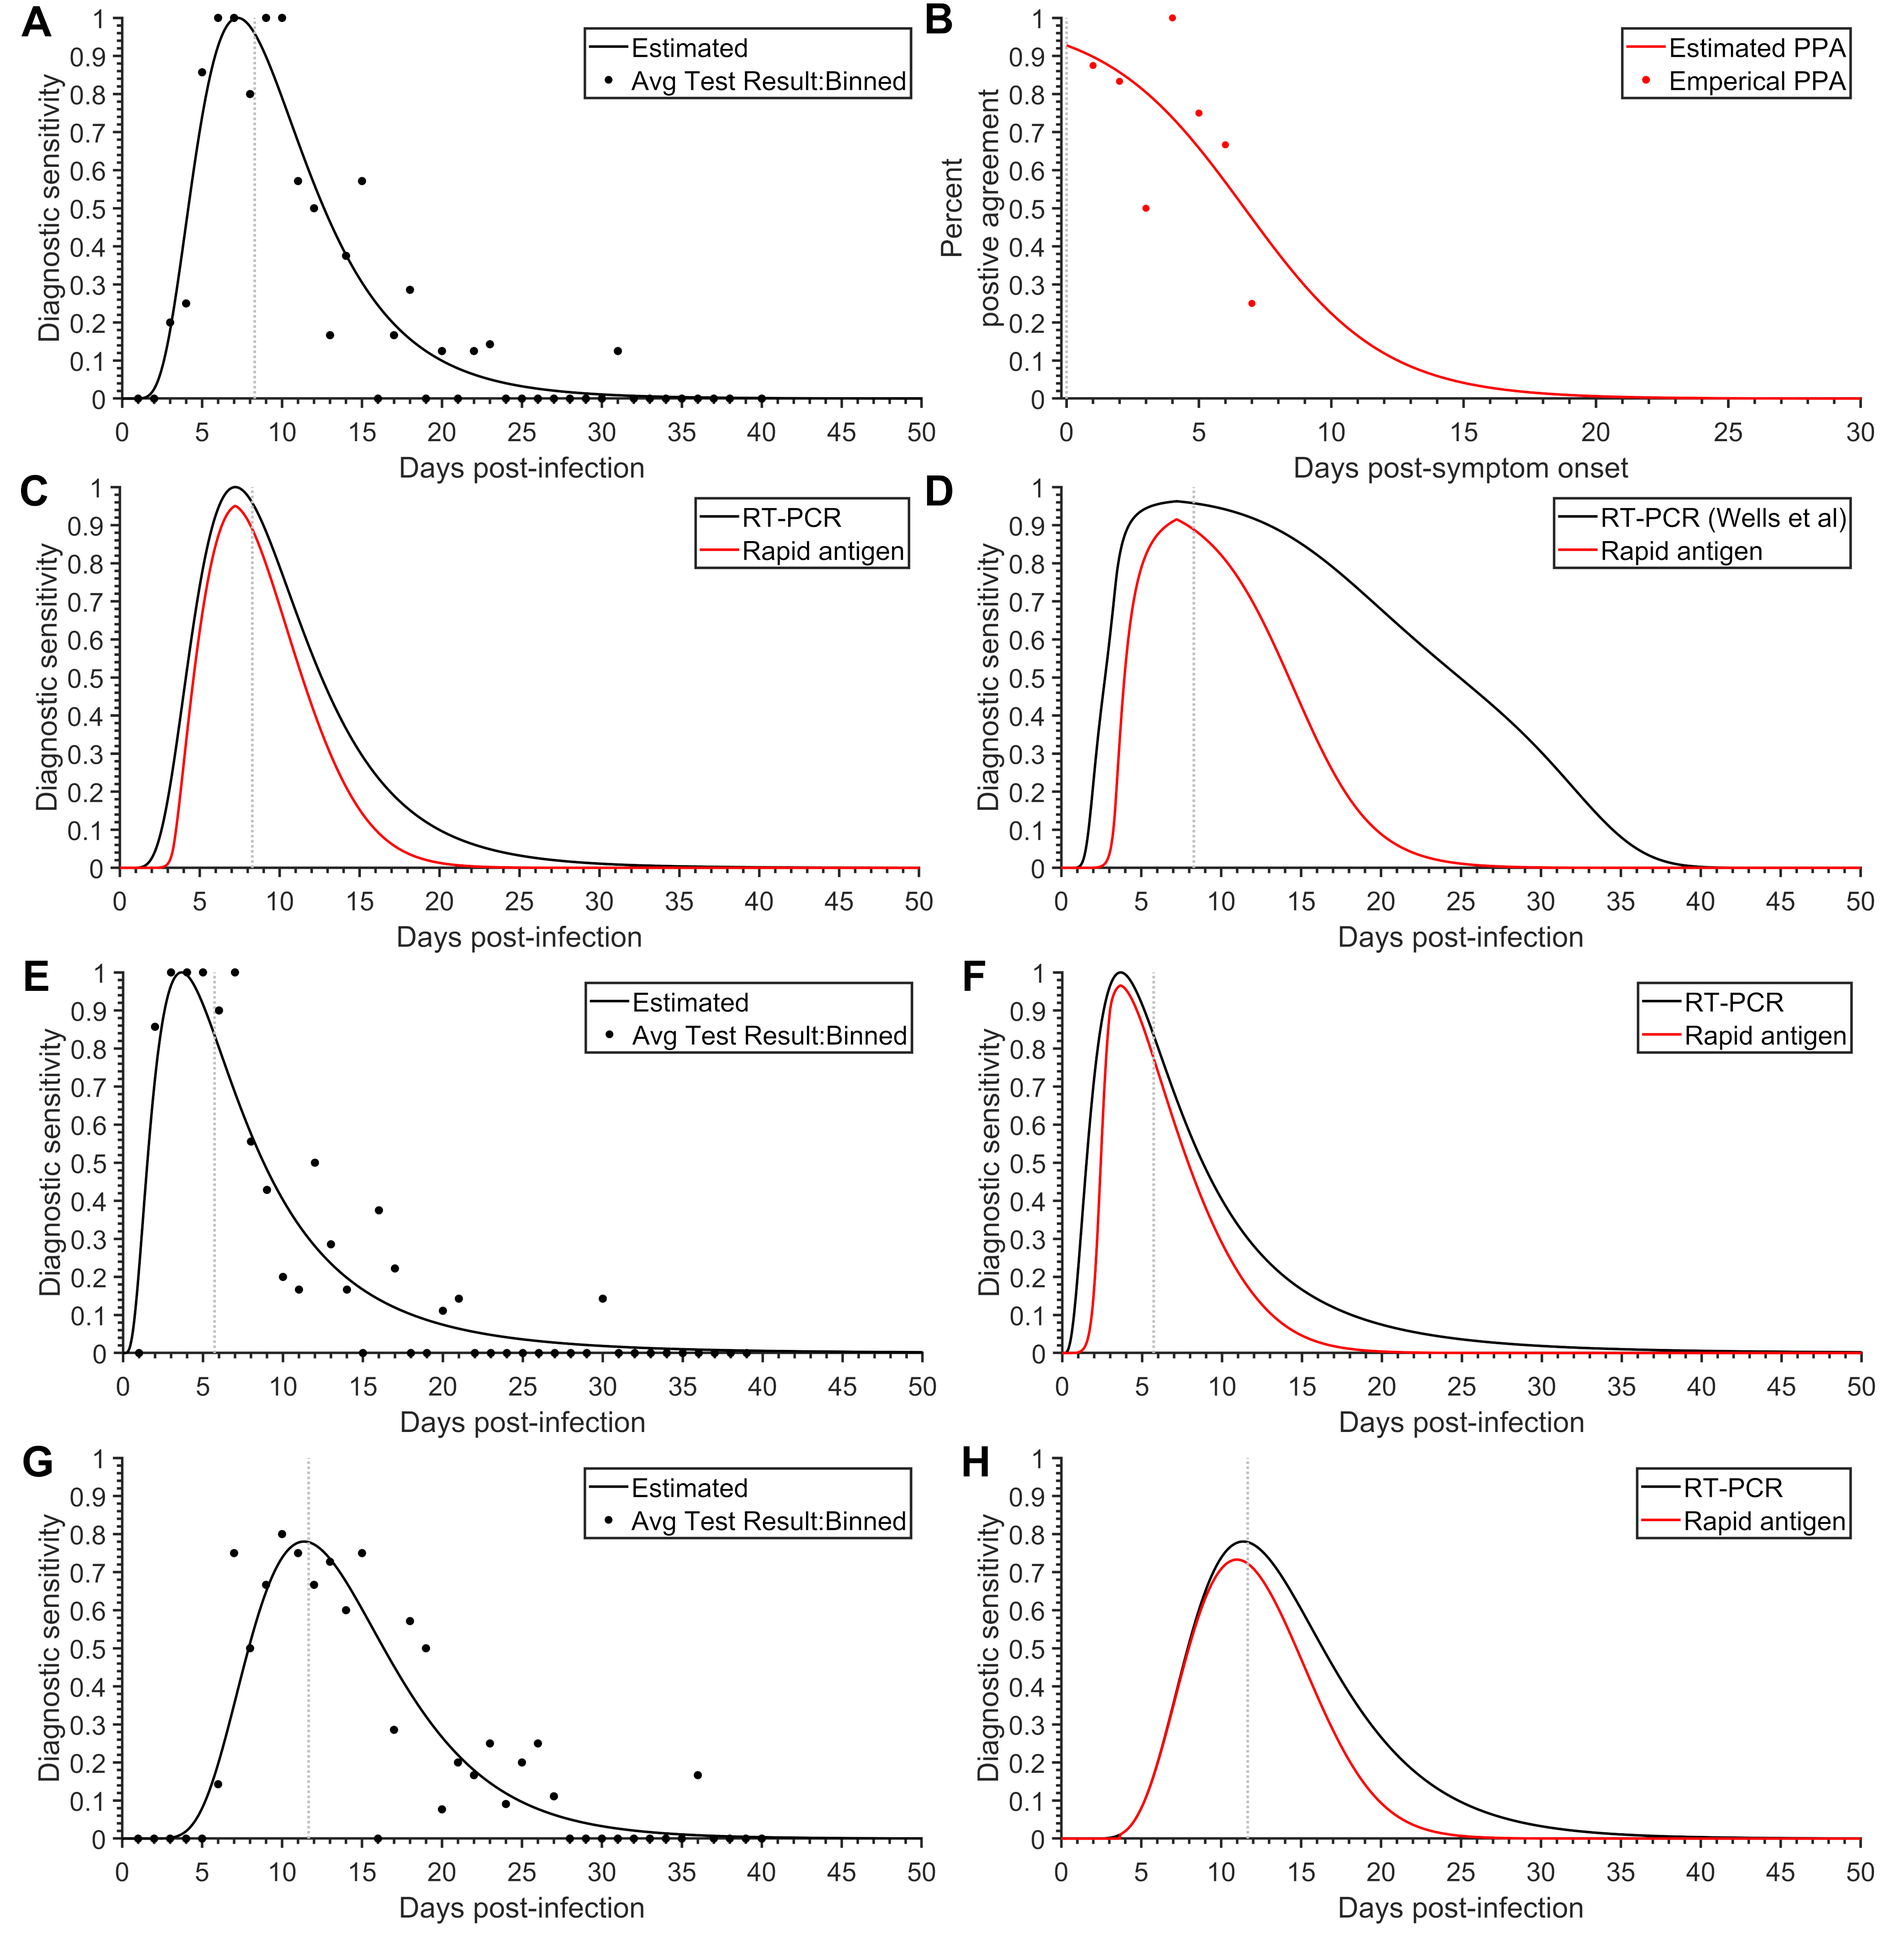
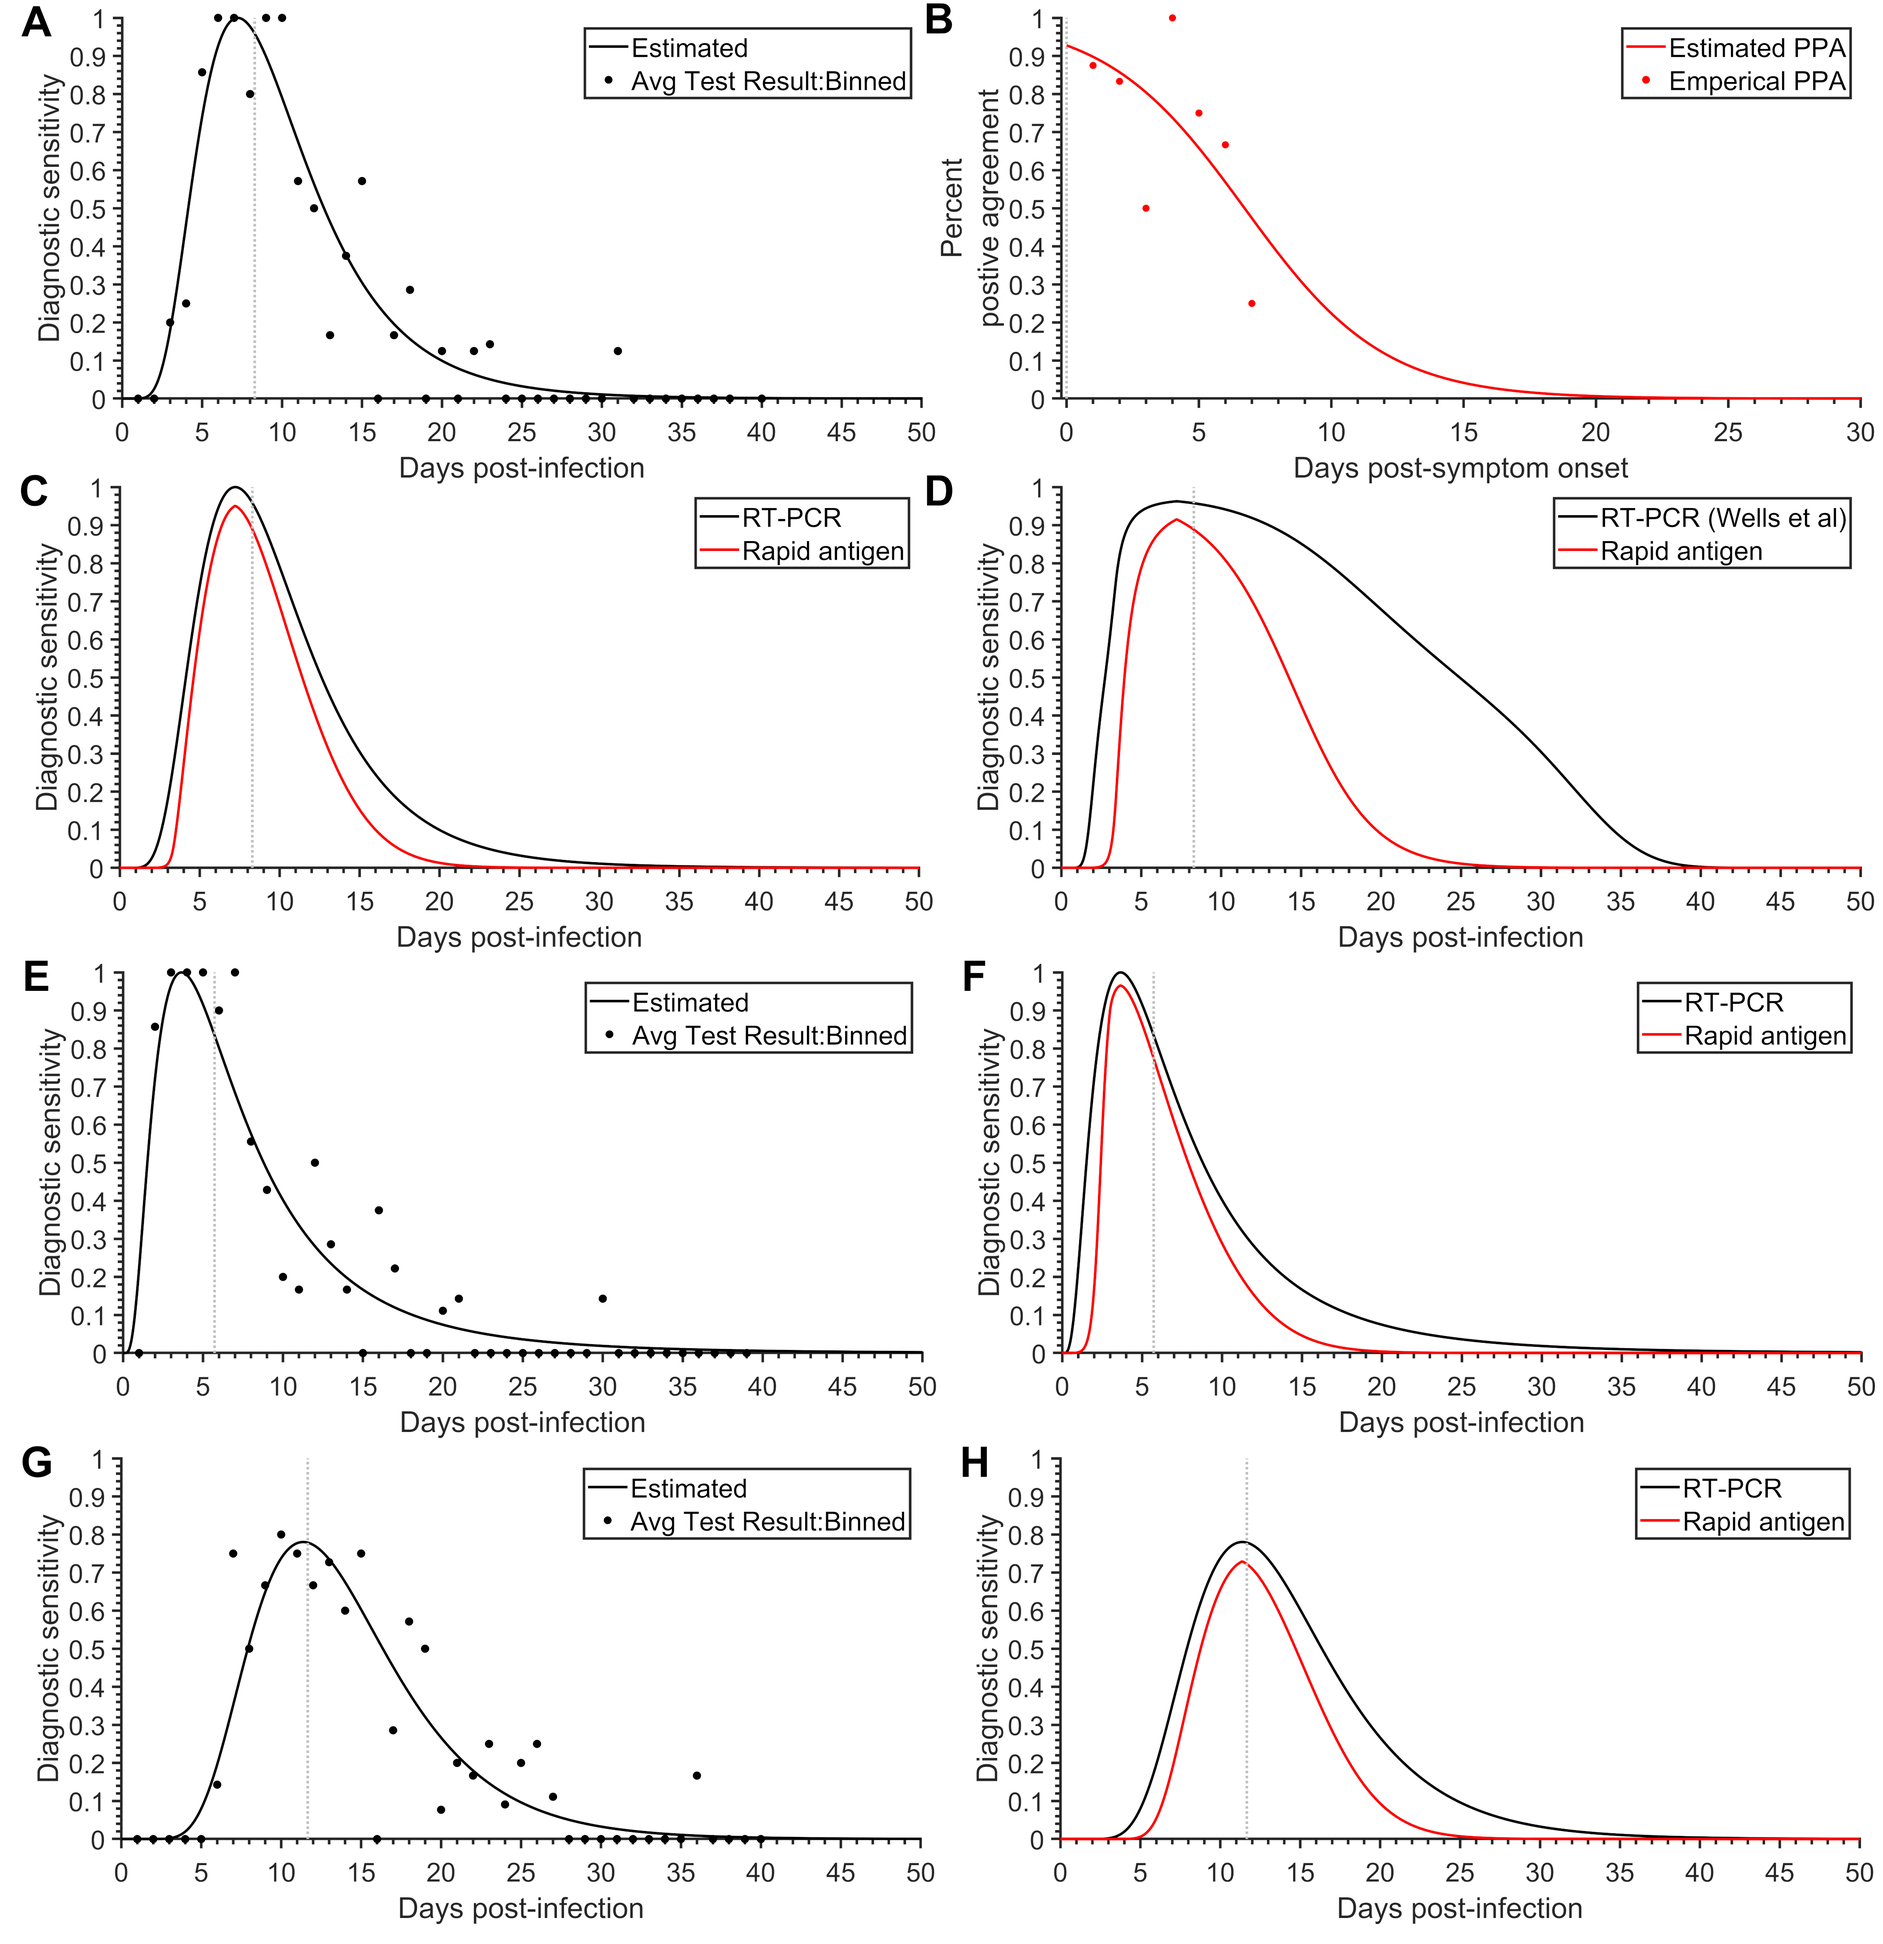
update long incubatino period

diff --git a/Incubation_Period_(Longer)/LikelihoodPCRCurve.m b/Incubation_Period_(Longer)/LikelihoodPCRCurve.m
@@ -2,7 +2,7 @@ function L = LikelihoodPCRCurve(x,PtID,dstart,dlast,TPtID,TDate,TResult)
 beta=10.^x(end-1:end);
 
 % Shorter incubation period
-betat=log(11.3757871819244)+beta(1)^2;
+betat=log(11.375787181924398)+beta(1)^2;
 beta=[betat beta];
 TI=x(1:end-2);
 [~,Lstart] = DistIncubation(dstart-TI);

diff --git a/Incubation_Period_(Longer)/TestSensitivity.m b/Incubation_Period_(Longer)/TestSensitivity.m
@@ -17,8 +17,8 @@ function S = TestSensitivity(t,ts,tL,td,testtype,beta)
 % Code
 %%%%%%%%%%%%%%%%%%%%%%%%%%%%%%%%%%%%%%%%%%%%%%%%%%%%%%%%%%%%%%%%%%%%%%%%%%%
 
-av=[1.2666756];
-bv=[2.833497723426254];
+av=[10.024035];
+bv=[0.939245823173824];
 
 LatentPeriod=[2.9];
 a=av(tL==LatentPeriod);

diff --git a/Incubation_Period_(Longer)/FitPCRCurve.m b/Incubation_Period_(Longer)/FitPCRCurve.m
@@ -64,6 +64,6 @@ if(fvalt<MLE)
     beta=10.^part(end-1:end);
     MLE=fvalt;
 end
-betat=log(11.3757871819244)+beta(1)^2;
+betat=log(11.375787181924398)+beta(1)^2;
 beta=[betat beta];
 save('MLE-Estimate-RTPCR-Hill_Incubation_11_7_days.mat');
